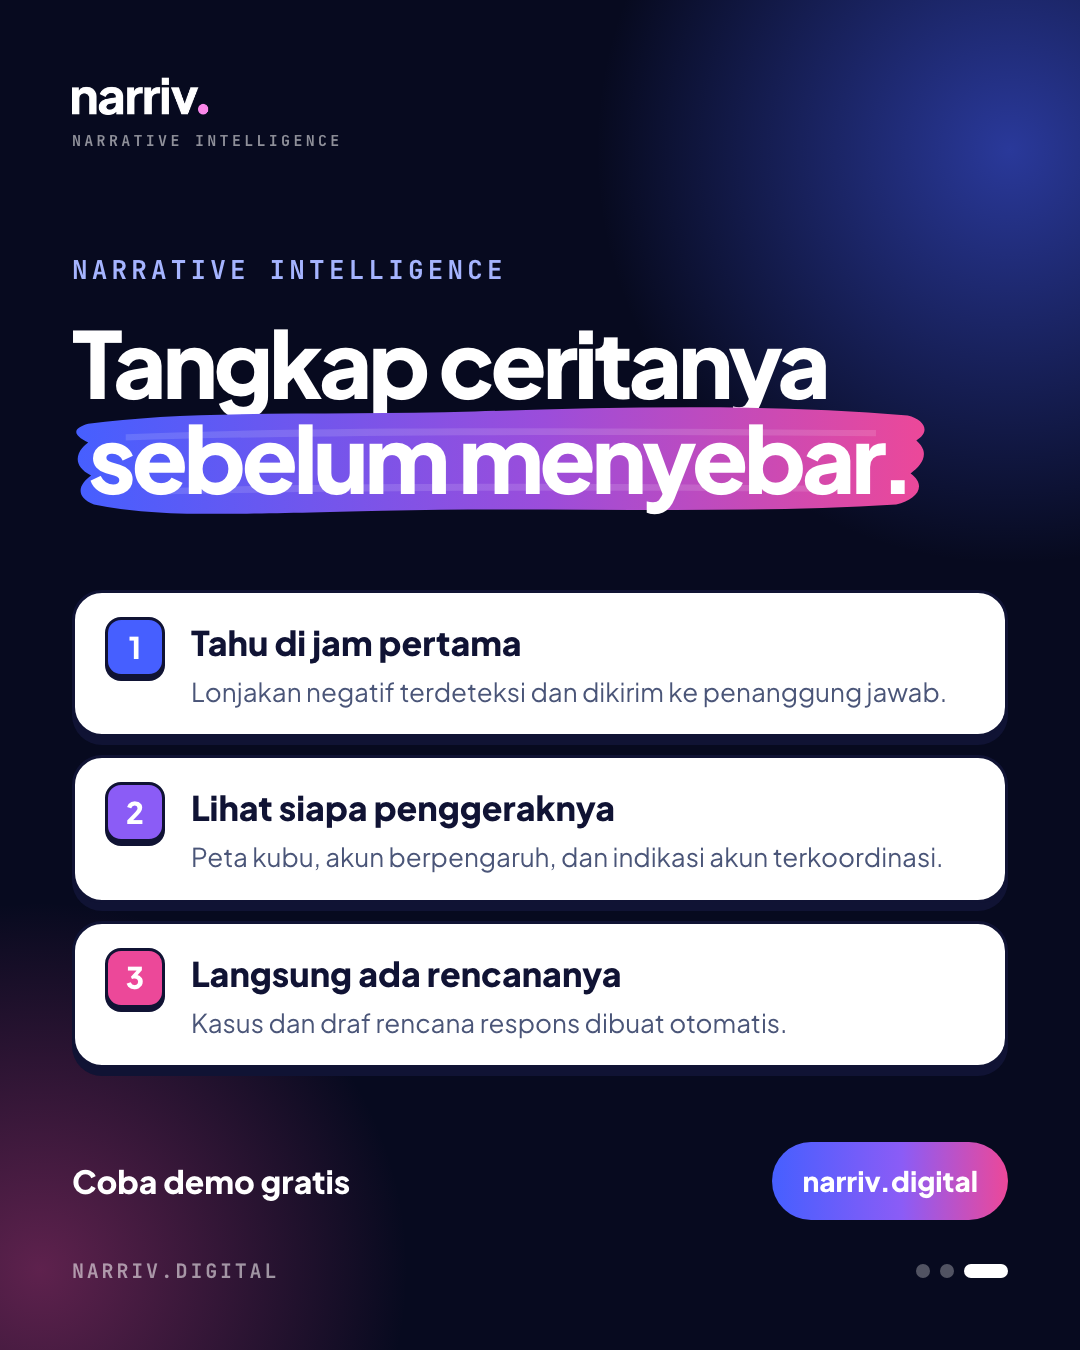
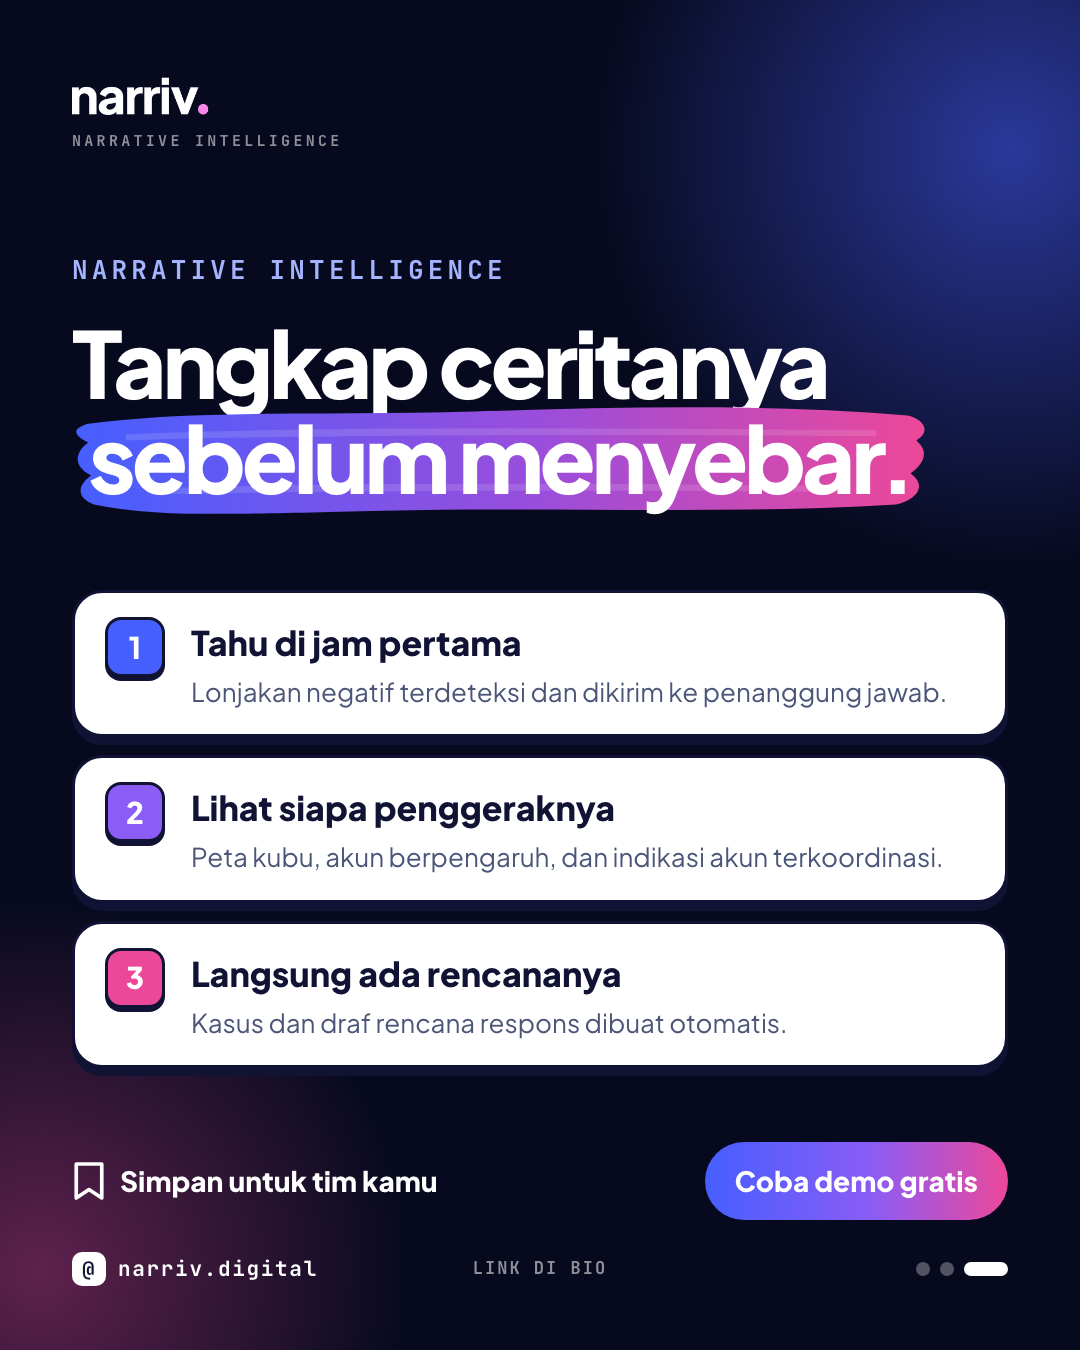
Social feed footer: @narriv.digital handle, sample-data note, save prompt on the last slide

diff --git a/frontend/app/pitch/social/page.tsx b/frontend/app/pitch/social/page.tsx
@@ -46,11 +46,17 @@ function Brush({ children }: { children: ReactNode }) {
   return <span className="mk-brush" style={{ whiteSpace: "nowrap" }}>{children}</span>;
 }
 
-function Pager({ n, of, dark }: { n: number; of: number; dark?: boolean }) {
+/** Footer: the handle (same on every platform and as the website), an optional note, and the slide dots. */
+function Pager({ n, of, dark, note }: { n: number; of: number; dark?: boolean; note?: string }) {
+  const soft = dark ? "rgba(255,255,255,.55)" : "#6B7394";
   return (
-    <div style={{ position: "absolute", left: 72, right: 72, bottom: 64, display: "flex", alignItems: "center", justifyContent: "space-between" }}>
-      <span style={{ fontFamily: MONO, fontSize: 20, fontWeight: 700, letterSpacing: "0.14em", color: dark ? "rgba(255,255,255,.55)" : "#6B7394" }}>NARRIV.DIGITAL</span>
-      <span style={{ display: "flex", gap: 10 }}>{Array.from({ length: of }, (_, i) => <span key={i} style={{ width: i + 1 === n ? 44 : 14, height: 14, borderRadius: 99, background: i + 1 === n ? (dark ? "#fff" : INK) : dark ? "rgba(255,255,255,.3)" : "#C9CFDD" }} />)}</span>
+    <div style={{ position: "absolute", left: 72, right: 72, bottom: 64, display: "grid", gridTemplateColumns: "1fr auto 1fr", alignItems: "center", gap: 20 }}>
+      <span style={{ display: "inline-flex", alignItems: "center", gap: 12, fontFamily: MONO, fontSize: 21, fontWeight: 700, letterSpacing: "0.08em", color: dark ? "#fff" : INK }}>
+        <span style={{ display: "inline-grid", placeItems: "center", width: 34, height: 34, borderRadius: 10, background: dark ? "#fff" : INK, color: dark ? INK : "#fff", fontSize: 20, fontWeight: 900 }}>@</span>
+        narriv.digital
+      </span>
+      <span style={{ fontFamily: MONO, fontSize: 17, fontWeight: 700, letterSpacing: "0.12em", textTransform: "uppercase", color: soft, textAlign: "center" }}>{note ?? ""}</span>
+      <span style={{ display: "flex", gap: 10, justifyContent: "flex-end" }}>{Array.from({ length: of }, (_, i) => <span key={i} style={{ width: i + 1 === n ? 44 : 14, height: 14, borderRadius: 99, background: i + 1 === n ? (dark ? "#fff" : INK) : dark ? "rgba(255,255,255,.3)" : "#C9CFDD" }} />)}</span>
     </div>
   );
 }
@@ -71,7 +77,7 @@ function Feed1() {
         <p style={{ margin: "40px 0 0", fontSize: 38, lineHeight: 1.4, color: "rgba(255,255,255,.75)" }}>Begini cara krisis reputasi menyebar, dan kapan seharusnya tim komunikasi sudah tahu.</p>
       </div>
       <div style={{ position: "absolute", right: 72, bottom: 150, display: "inline-flex", alignItems: "center", gap: 14, padding: "18px 28px", borderRadius: 999, background: "#fff", color: INK, fontSize: 28, fontWeight: 800 }}>Geser →</div>
-      <Pager n={1} of={3} dark />
+      <Pager n={1} of={3} dark note="Data contoh · bank fiktif" />
     </Frame>
   );
 }
@@ -105,7 +111,7 @@ function Feed2() {
           </div>
         ))}
       </div>
-      <Pager n={2} of={3} />
+      <Pager n={2} of={3} note="Data contoh · bank fiktif" />
     </Frame>
   );
 }
@@ -132,10 +138,13 @@ function Feed3() {
         ))}
       </div>
       <div style={{ position: "absolute", left: 72, right: 72, bottom: 130, display: "flex", alignItems: "center", justifyContent: "space-between" }}>
-        <span style={{ fontSize: 32, fontWeight: 800 }}>Coba demo gratis</span>
-        <span style={{ padding: "18px 30px", borderRadius: 999, background: "linear-gradient(90deg,#465FFF,#8B5CF6 55%,#EC4899)", fontSize: 28, fontWeight: 800 }}>narriv.digital</span>
+        <span style={{ display: "inline-flex", alignItems: "center", gap: 14, fontSize: 28, fontWeight: 800 }}>
+          <svg width="34" height="40" viewBox="0 0 24 28" aria-hidden><path d="M3 2h18v24l-9-6-9 6z" fill="none" stroke="#fff" strokeWidth="2.6" strokeLinejoin="round" /></svg>
+          Simpan untuk tim kamu
+        </span>
+        <span style={{ padding: "18px 30px", borderRadius: 999, background: "linear-gradient(90deg,#465FFF,#8B5CF6 55%,#EC4899)", fontSize: 28, fontWeight: 800 }}>Coba demo gratis</span>
       </div>
-      <Pager n={3} of={3} dark />
+      <Pager n={3} of={3} dark note="Link di bio" />
     </Frame>
   );
 }
